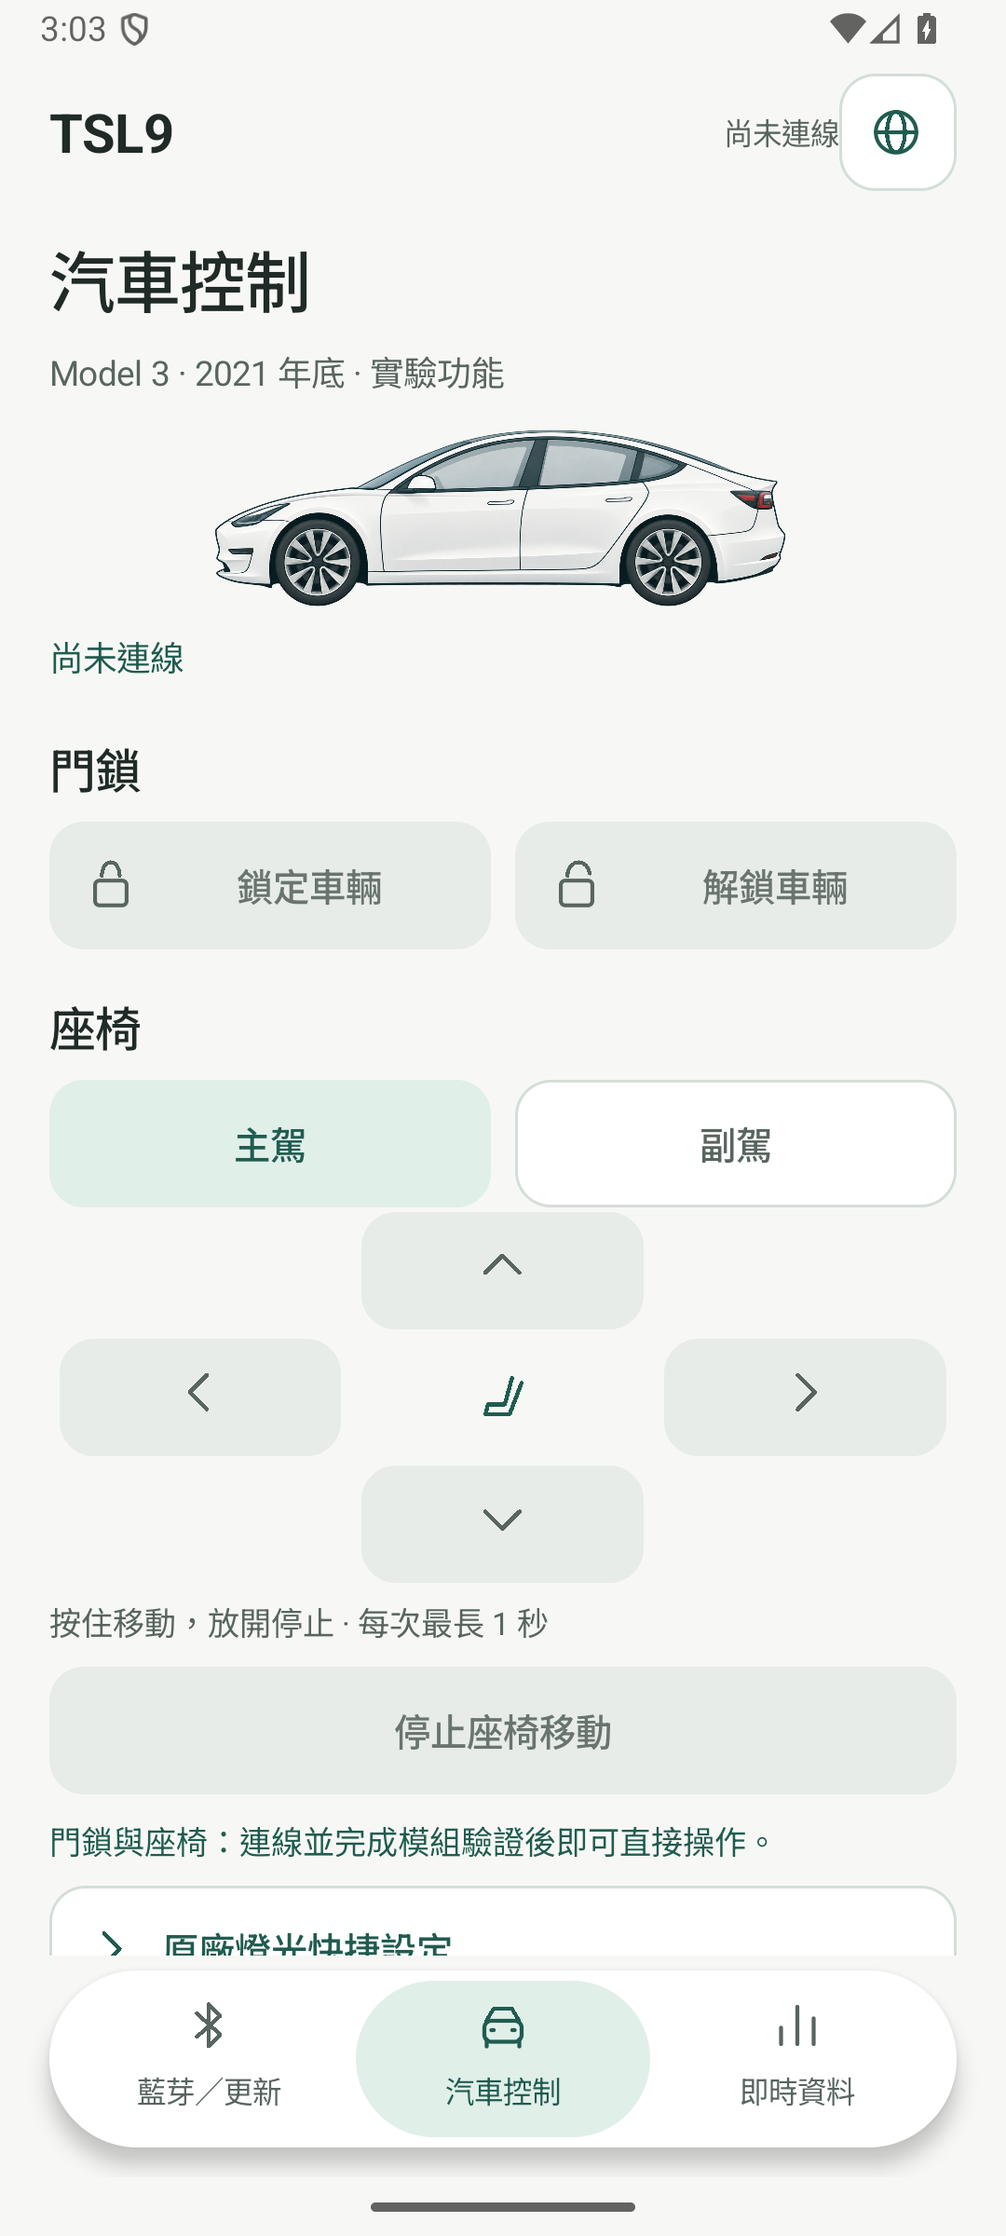
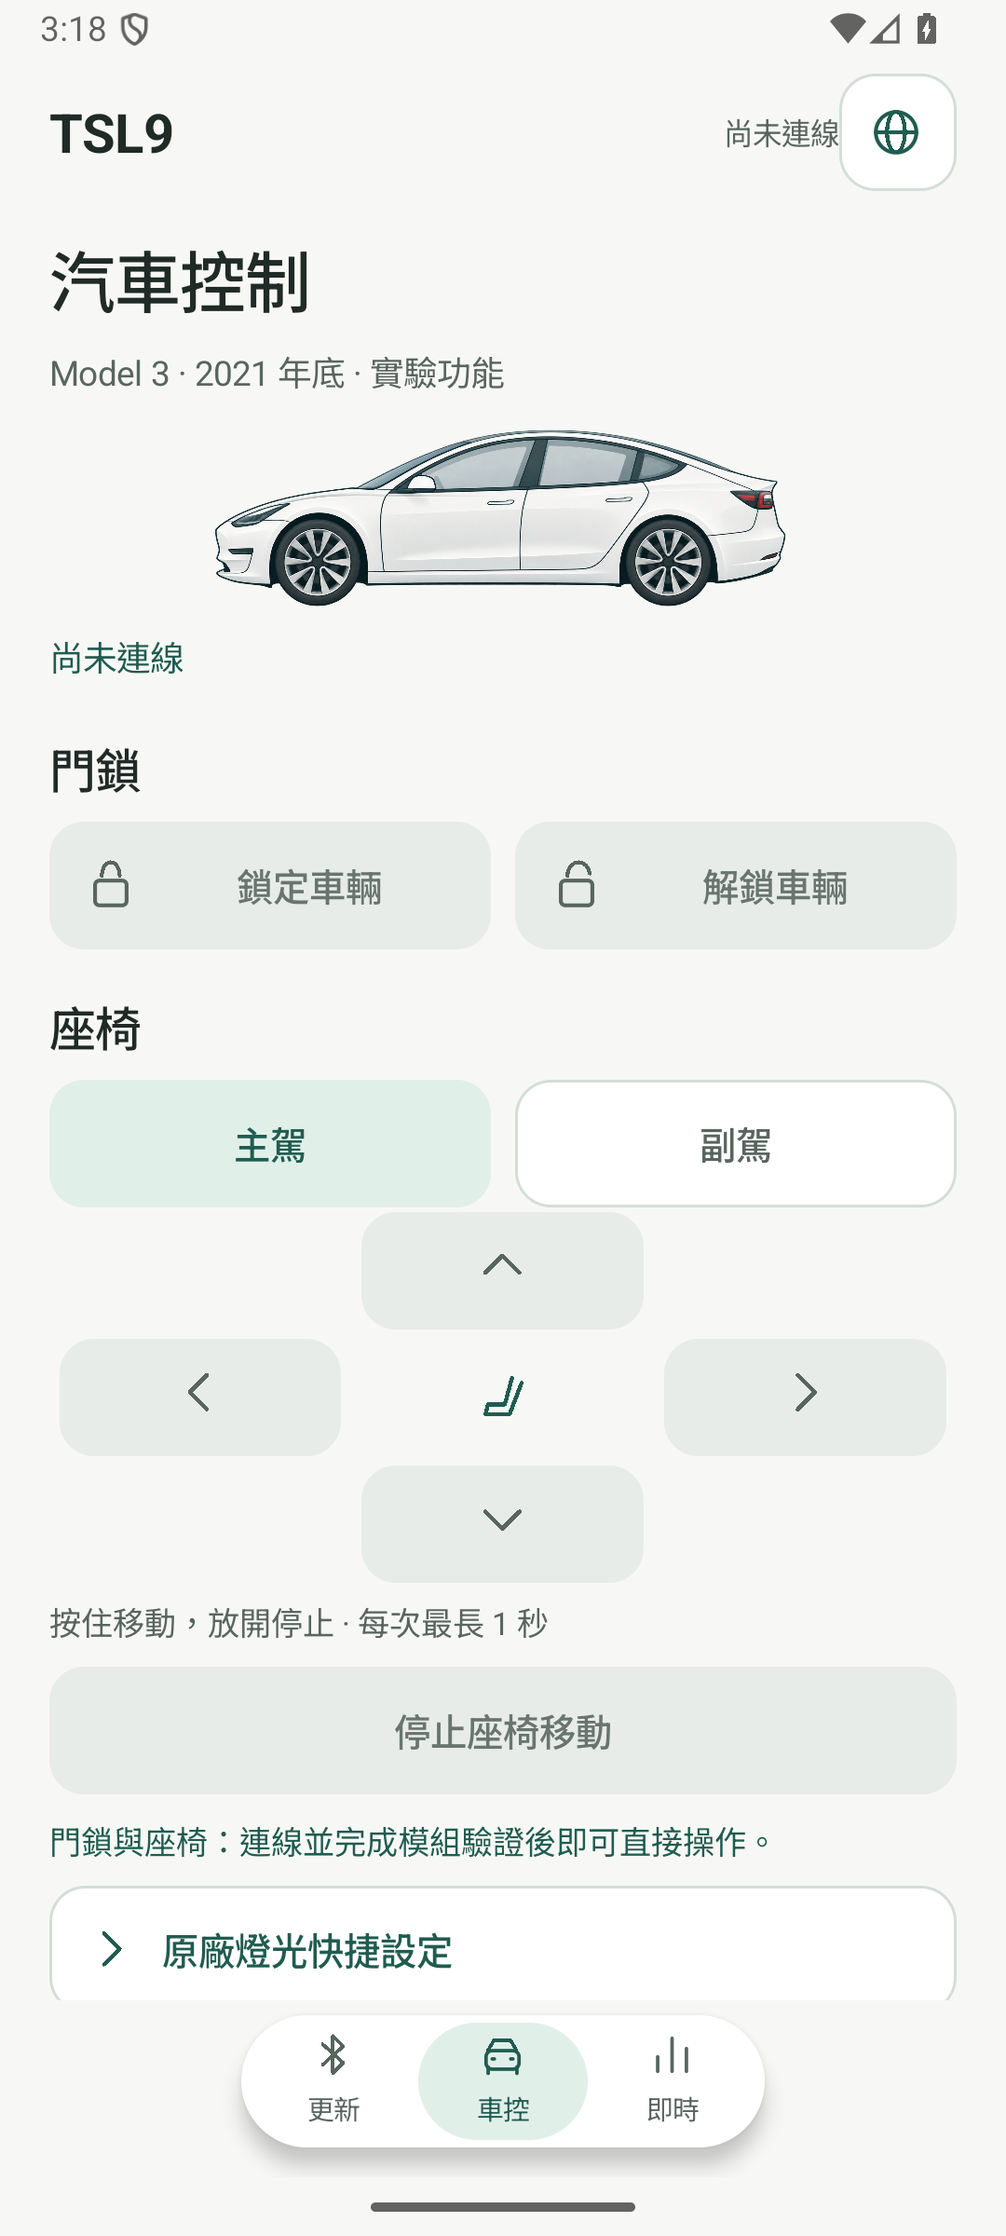
Pin reference-based compact pill navigation pattern

diff --git a/tsl9-morphe/tsl9-updater/app/src/main/java/dev/tsl9/morphe/MainActivity.java b/tsl9-morphe/tsl9-updater/app/src/main/java/dev/tsl9/morphe/MainActivity.java
@@ -58,7 +58,7 @@ public final class MainActivity extends Activity implements BleClient.Events,Ota
     private int dp(float n){return Math.round(n*getResources().getDisplayMetrics().density);}
     private TextView text(String value,int size,int color){return AppUi.text(this,value,size,color);}
     private Button button(String title,Runnable run){Button b=new Button(this);b.setText(title);AppUi.style(b,false);b.setOnClickListener(v->{try{run.run();}catch(SecurityException e){state(s(R.string.nearby_permission));log("PERMISSION operation blocked");}catch(IllegalArgumentException e){state(UiStrings.error(this,e));log("VALIDATION "+e.getMessage());}});return b;}
-    private TextView tabIndicator(int label,String icon){return AppUi.tab(this,s(label),icon);}
+    private TextView tabIndicator(int label,int compactLabel,String icon){TextView tab=AppUi.tab(this,s(compactLabel),icon);tab.setContentDescription(s(label));return tab;}
     private void title(LinearLayout body,int title,int subtitle){TextView h=text(s(title),27,DARK);h.setTypeface(android.graphics.Typeface.create("sans-serif-medium",android.graphics.Typeface.NORMAL));body.addView(h);body.addView(text(s(subtitle),14,MUTED));}
     private void section(LinearLayout body,int label){body.addView(AppUi.heading(this,s(label)));}
     private void buildUi(){
@@ -108,11 +108,11 @@ public final class MainActivity extends Activity implements BleClient.Events,Ota
         language.setOnItemSelectedListener(new AdapterView.OnItemSelectedListener(){public void onNothingSelected(AdapterView<?> p){}public void onItemSelected(AdapterView<?> p,View v,int position,long id){if(position==LanguageSettings.index(MainActivity.this))return;if(!canChangeLanguage()){language.setSelection(LanguageSettings.index(MainActivity.this));return;}LanguageSettings.select(MainActivity.this,position);}});
         languagePanel.addView(language);languagePanel.setVisibility(View.GONE);tabBody.addView(languagePanel);
         FrameLayout content=new FrameLayout(this);content.setId(android.R.id.tabcontent);tabBody.addView(content,new LinearLayout.LayoutParams(-1,0,1));
-        TabWidget tabBar=new TabWidget(this);tabBar.setId(android.R.id.tabs);tabBar.setStripEnabled(false);tabBar.setPadding(dp(5),dp(4),dp(5),dp(4));tabBar.setBackground(AppUi.shape(this,AppUi.WHITE,999,0));tabBar.setElevation(dp(5));tabBar.setClipToOutline(true);
-        LinearLayout.LayoutParams barParams=new LinearLayout.LayoutParams(-1,-2);barParams.setMargins(dp(20),dp(6),dp(20),dp(12));tabBody.addView(tabBar,barParams);tabs.addView(tabBody);tabs.setup();
+        TabWidget tabBar=new AppUi.PillNavigation(this);
+        LinearLayout.LayoutParams barParams=new LinearLayout.LayoutParams(-2,-2);barParams.gravity=Gravity.CENTER_HORIZONTAL;barParams.setMargins(dp(16),dp(6),dp(16),dp(12));tabBody.addView(tabBar,barParams);tabs.addView(tabBody);tabs.setup();
         ScrollView vehicleScroll=buildVehicleUi();
         livePanel=new LivePanel(this,new LivePanel.Host(){public void query(){requestCarStatus();}public void startCan(String filter){startLiveCan(filter);}public void stopCan(){if(hardware.active()&&hardware.mode()==HardwareCapture.Mode.CAN)stopHardware("manual",false);}public void export(){if(hardwareExport.isEnabled())hardwareExport.performClick();}});
-        tabs.addTab(tabs.newTabSpec("tools").setIndicator(tabIndicator(R.string.tab_tools,"bluetooth")).setContent(tag->scroll));tabs.addTab(tabs.newTabSpec("car").setIndicator(tabIndicator(R.string.tab_car,"car")).setContent(tag->vehicleScroll));tabs.addTab(tabs.newTabSpec("live").setIndicator(tabIndicator(R.string.live_tab,"chart")).setContent(tag->livePanel.view));
+        tabs.addTab(tabs.newTabSpec("tools").setIndicator(tabIndicator(R.string.tab_tools,R.string.nav_tools,"bluetooth")).setContent(tag->scroll));tabs.addTab(tabs.newTabSpec("car").setIndicator(tabIndicator(R.string.tab_car,R.string.nav_car,"car")).setContent(tag->vehicleScroll));tabs.addTab(tabs.newTabSpec("live").setIndicator(tabIndicator(R.string.live_tab,R.string.nav_live,"chart")).setContent(tag->livePanel.view));
         tabs.setOnTabChangedListener(tag->{if(!tag.equals("car"))car.stopSeat();if(tag.equals("car")||tag.equals("live")){lastCarPoll=0;lastCarInfoPoll=0;}refresh();});setContentView(tabs);
         tabBody.setOnApplyWindowInsetsListener((v,insets)->{tabBody.setPadding(insets.getSystemWindowInsetLeft(),insets.getSystemWindowInsetTop(),insets.getSystemWindowInsetRight(),insets.getSystemWindowInsetBottom());return insets.consumeSystemWindowInsets();});
     }

diff --git a/tsl9-morphe/tsl9-updater/app/src/main/java/dev/tsl9/morphe/AppUi.java b/tsl9-morphe/tsl9-updater/app/src/main/java/dev/tsl9/morphe/AppUi.java
@@ -35,10 +35,25 @@ final class AppUi {
         Context c=row.getContext();LinearLayout.LayoutParams left=new LinearLayout.LayoutParams(0,-2,1);left.setMarginEnd(dp(c,5));LinearLayout.LayoutParams right=new LinearLayout.LayoutParams(0,-2,1);right.setMarginStart(dp(c,5));row.addView(a,left);row.addView(b,right);
     }
     static TextView tab(Context c,String title,String kind){
-        TextView v=text(c,title,12,INK);v.setGravity(Gravity.CENTER);v.setMinHeight(dp(c,64));v.setPadding(dp(c,5),dp(c,7),dp(c,5),dp(c,7));v.setMaxLines(2);v.setContentDescription(title);
+        TextView v=text(c,title,11,INK);v.setGravity(Gravity.CENTER);v.setMinHeight(dp(c,48));v.setMinWidth(dp(c,48));v.setIncludeFontPadding(false);v.setPadding(dp(c,4),dp(c,3),dp(c,4),dp(c,3));v.setSingleLine(true);v.setContentDescription(title);
         int[][] states={new int[]{android.R.attr.state_selected},new int[0]};v.setTextColor(new ColorStateList(states,new int[]{TEAL,MUTED}));
         StateListDrawable bg=new StateListDrawable();bg.addState(states[0],shape(c,SAGE,999,0));bg.addState(states[1],shape(c,Color.TRANSPARENT,999,0));v.setBackground(new RippleDrawable(ColorStateList.valueOf(0x19205c50),bg,null));
-        Icon icon=new Icon(kind,true);icon.setBounds(0,0,dp(c,23),dp(c,23));v.setCompoundDrawables(null,icon,null,null);v.setCompoundDrawablePadding(dp(c,3));return v;
+        Icon icon=new Icon(kind,true);icon.setBounds(0,0,dp(c,20),dp(c,20));v.setCompoundDrawables(null,icon,null,null);v.setCompoundDrawablePadding(dp(c,2));return v;
+    }
+    /** Pinned compact navigation geometry. Labels can expand the nominal ratio. */
+    static final class PillNavigation extends TabWidget {
+        static final float WIDTH_RATIO=0.52f;
+        PillNavigation(Context c){super(c);setId(android.R.id.tabs);setStripEnabled(false);setPadding(dp(c,3),dp(c,3),dp(c,3),dp(c,3));setBackground(shape(c,WHITE,999,0));setElevation(dp(c,5));setClipToOutline(true);}
+        @Override protected void onMeasure(int widthSpec,int heightSpec){
+            Context c=getContext();int available=View.MeasureSpec.getSize(widthSpec);
+            if(View.MeasureSpec.getMode(widthSpec)==View.MeasureSpec.UNSPECIFIED)available=c.getResources().getDisplayMetrics().widthPixels-dp(c,32);
+            int slot=dp(c,48),height=dp(c,48);
+            for(int i=0;i<getChildCount();i++)if(getChildAt(i) instanceof TextView){TextView label=(TextView)getChildAt(i);slot=Math.max(slot,(int)Math.ceil(label.getPaint().measureText(label.getText().toString()))+label.getPaddingLeft()+label.getPaddingRight()+dp(c,2));Paint.FontMetrics metrics=label.getPaint().getFontMetrics();height=Math.max(height,(int)Math.ceil(metrics.descent-metrics.ascent)+label.getPaddingTop()+label.getPaddingBottom()+dp(c,22));}
+            int nominal=Math.min(dp(c,360),Math.round((available+dp(c,32))*WIDTH_RATIO));
+            int desired=Math.min(available,Math.max(nominal,slot*getChildCount()+getPaddingLeft()+getPaddingRight()));
+            int desiredHeight=height+getPaddingTop()+getPaddingBottom();
+            super.onMeasure(View.MeasureSpec.makeMeasureSpec(desired,View.MeasureSpec.EXACTLY),View.MeasureSpec.makeMeasureSpec(View.resolveSize(desiredHeight,heightSpec),View.MeasureSpec.EXACTLY));
+        }
     }
     static LinearLayout disclosure(Context c,LinearLayout parent,String title,LinearLayout detail){
         Button header=new Button(c);header.setText(title);style(header,false);header.setGravity(Gravity.START|Gravity.CENTER_VERTICAL);icon(header,"chevron");

diff --git a/tsl9-morphe/tsl9-updater/app/src/androidTest/java/dev/tsl9/morphe/MockupUiChecks.java b/tsl9-morphe/tsl9-updater/app/src/androidTest/java/dev/tsl9/morphe/MockupUiChecks.java
@@ -17,10 +17,20 @@ final class MockupUiChecks {
         TabWidget bar=tabs.getTabWidget();float density=a.getResources().getDisplayMetrics().density;
         check(bar.getTabCount()==3,"three native navigation destinations retained");
         check(bar.getWidth()<tabs.getWidth()-24*density,"pill navigation has visible horizontal breathing room");
+        float fontScale=a.getResources().getConfiguration().fontScale;
+        if(fontScale<=1.05f&&tabs.getWidth()/density<600){
+            check(bar.getWidth()>=tabs.getWidth()*0.50f&&bar.getWidth()<=tabs.getWidth()*0.57f,"compact pill follows reference width around 52 percent");
+            check(bar.getWidth()/(float)bar.getHeight()>=3.6f&&bar.getWidth()/(float)bar.getHeight()<=4.5f,"compact pill follows reference aspect near four to one");
+        }
+        check(Math.abs(bar.getLeft()+bar.getWidth()/2f-tabs.getWidth()/2f)<=2*density,"pill remains horizontally centered");
         for(int i=0;i<3;i++){
             View v=bar.getChildTabViewAt(i);check(v.getHeight()>=48*density,"tab has a touch target at least 48dp high");
+            check(v.getWidth()>=48*density,"compact tab keeps a touch target at least 48dp wide");
             check(v instanceof TextView&&!((TextView)v).getText().toString().isEmpty(),"tab retains an accessible localized label");
             check(((TextView)v).getCompoundDrawables()[1]!=null,"each navigation destination has an icon");
+            check(((TextView)v).getMaxLines()==1,"compact navigation keeps a single short label line");
+            int[] names={R.string.tab_tools,R.string.tab_car,R.string.live_tab};check(a.getString(names[i]).contentEquals(v.getContentDescription()),"short labels preserve full accessible destination names");
+            TextView label=(TextView)v;check(label.getPaint().measureText(label.getText().toString())<=v.getWidth()-v.getPaddingLeft()-v.getPaddingRight()+1,"scaled localized navigation label fits its slot");
             v.performClick();check(tabs.getCurrentTab()==i,"native pill tab opens its destination");
         }
         tabs.setCurrentTabByTag("tools");

diff --git a/tsl9-morphe/tsl9-updater/DESIGN.md b/tsl9-morphe/tsl9-updater/DESIGN.md
@@ -40,6 +40,10 @@ typography:
     fontSize: "12sp"
     fontWeight: 400
     fontFeature: "tnum"
+  navigation-label:
+    fontFamily: "sans"
+    fontSize: "11sp"
+    fontWeight: 400
   metric:
     fontFamily: "sans-serif-medium"
     fontSize: "28sp"
@@ -93,15 +97,18 @@ components:
   navigation:
     backgroundColor: "{colors.white}"
     rounded: "{rounded.capsule}"
-    padding: "4dp 5dp"
+    padding: "3dp"
+    width: "52% of safe viewport; max 360dp; expand for accessible labels"
+    aspect: "approximately 4:1 at default font size"
+    minTarget: "48dp x 48dp per destination"
   navigation-selected:
     backgroundColor: "{colors.selected-sage}"
     textColor: "{colors.forest-teal}"
-    typography: "{typography.caption}"
+    typography: "{typography.navigation-label}"
     rounded: "{rounded.capsule}"
   navigation-inactive:
     textColor: "{colors.muted}"
-    typography: "{typography.caption}"
+    typography: "{typography.navigation-label}"
     rounded: "{rounded.capsule}"
 ---
 
@@ -163,7 +170,8 @@ These names describe the current native implementation; platform font resolution
 - **Body:** descriptions, connection/readiness text and detailed vehicle data.
 - **Supporting:** help, summary and file/version metadata.
 - **Label:** sentence-case action labels, with all-caps transformation disabled.
-- **Caption:** navigation labels and metric field labels.
+- **Caption:** metric field labels.
+- **Navigation label:** short, single-line destination text in the compact pill.
 - **Metric:** prominent received values, using tabular figures where requested.
 - **Diagnostic:** selectable logs. CAN stream text also uses monospace at the supporting size.
 
@@ -175,7 +183,21 @@ All three destinations use a vertical `ScrollView` with a fill-viewport body. Sh
 
 Paired controls share available width equally. Each contributes a half-gap toward the adjacent item, making a central gap (10dp). Live metric tiles use the same two-column arrangement and independent content heights; the implementation does not equalize tiles or switch to a desktop grid.
 
-The bottom capsule occupies its own layout row below the scrolling content. It has horizontal page margins, a small top margin (6dp) and bottom breathing room (12dp). Each destination is at least 64dp high, with labels allowed two lines. Window insets are applied to the outer tab body.
+The bottom capsule occupies its own centered layout row below the scrolling content. Its nominal width is 52% of the safe viewport, capped at 360dp; it retains at least 16dp of side clearance, a small top margin (6dp), and bottom breathing room (12dp). Each destination is at least 48dp square. Window insets are applied to the outer tab body. See the compact pill pattern below for accessibility expansion.
+
+### Compact centered pill navigation — pinned reference
+
+The user's dialer screenshot `11138.jpg` is the proportion authority for this component. Visual estimates: image width 858px, capsule about 450px wide and 110px high, giving approximately 52% viewport width and 4.1:1 width/height. These are reference proportions, not physical-device dp measurements. Preserve the App's light/forest-teal palette; the reference pins geometry and hierarchy.
+
+- **Outer silhouette:** a compact capsule centered above the system gesture area, with visibly generous empty space on both sides. Do not stretch it across almost the full screen merely because its corners are round.
+- **Three equal destinations:** each gets one third of the usable inner width, a 20dp line icon above a short 11sp single-line label, a 2dp icon/label gap, and at least a 48dp square touch region. Inner shell padding is 3dp; normal shell height is approximately 54dp.
+- **Selection:** a filled inner pill occupies one slot and almost the full inner height. Keep a 3dp shell rim. Retain sage fill and teal content for the selected destination, muted content for the others, and native ripple/focus feedback.
+- **Copy:** compact labels are localized separately (Update / Controls / Live; 更新 / 車控 / 即時). Accessibility descriptions retain the full destination names, including Bluetooth / Update and Car controls. Page headings retain their original full copy.
+- **Sizing:** at normal font size, target `width = 0.52 × safeViewportWidth` and an aspect near 4:1. At large fonts or with longer translations, measure the actual label and expand all three slots equally before compromising readability. Minimum target size, readable labels and system insets take priority over the nominal ratio. Do not shrink text or clip it to preserve the screenshot shape. In wide windows cap the nominal width at 360dp; labels may require a larger accessible width within the safe viewport.
+- **Behavior:** selecting a destination updates its active inner pill. Preserve native tab semantics, existing destinations, state, lifecycle behavior and the stop-seat request when leaving car controls. No navigation animation may delay a stop request.
+- **Verification:** inspect the three actual App pages together at default font size, landscape and 200% text. Check horizontal centering, normal width/aspect, one-line labels, equal slots, 48dp targets, selected/inactive contrast, and full accessibility names. Screenshots must show real empty/disconnected states when no hardware is connected.
+
+Implementation authority: `AppUi.PillNavigation`, `AppUi.tab`, and `MainActivity`'s localized tab indicators. The same pattern is stored in `.impeccable/design.json` under `extensions.navigationPattern`; future App navigation changes must follow both records.
 
 The layout remains a scrollable single column in landscape and at larger font settings; no application breakpoint or alternative landscape composition is defined. Let native text measurement and scrolling carry expanded content.
 
@@ -193,7 +215,7 @@ Primary and secondary buttons use a native teal ripple with alpha `0x25`; naviga
 
 Use gently rounded control surfaces, slightly rounder content containers and a fully rounded navigation capsule. The capsule token is the implementation's large-radius sentinel; effective rounding is limited by the view's dimensions.
 
-Cards and secondary actions carry a thin boundary (1dp). Primary, disabled and selected fills have no added outline in the shared drawable. Selection is sage rather than a heavier border. Shared icons are custom geometric strokes with rounded caps and joins, drawn on a 24-unit coordinate grid with stroke width (1.7 units). Inline icons are normally 22dp; navigation icons are 23dp; directional controls use 24dp icons. Use these drawn icons instead of substituting emoji or typographic symbols.
+Cards and secondary actions carry a thin boundary (1dp). Primary, disabled and selected fills have no added outline in the shared drawable. Selection is sage rather than a heavier border. Shared icons are custom geometric strokes with rounded caps and joins, drawn on a 24-unit coordinate grid with stroke width (1.7 units). Inline icons are normally 22dp; navigation icons are 20dp; directional controls use 24dp icons. Use these drawn icons instead of substituting emoji or typographic symbols.
 
 ## Components
 

diff --git a/tsl9-morphe/tsl9-updater/README.md b/tsl9-morphe/tsl9-updater/README.md
@@ -6,7 +6,9 @@ APK：[`TSL9-Updater-0.7.1-test.apk`](../artifacts/tsl9-updater/TSL9-Updater-0.7
 
 0.7.1移除使用者專屬路徑並改用中性套件名稱。這會另行安裝，不能覆蓋舊套件；舊 App 的本機設定與記錄不會自動搬移。工具偵測與截圖重現方式見 [PORTABILITY.md](PORTABILITY.md)。0.7.0 的驗證收據保留當時真實套件與雜湊。
 
-0.7.1驗證：8項工具偵測、163項JVM、1090項三語資源、472項Android介面／生命週期檢查通過；真實系統選檔／匯出另通過123項Android及4項匯出內容檢查。見 [精確收據](verification/ui-0.7.1.json) 與 [新版三頁截圖](verification/screens/0.7.1/)。均為本機／合成測試，未操作實車或寫入硬體。
+0.7.1導覽依使用者參考圖改為置中的窄版膠囊，預設寬度約畫面52%、寬高約4:1；三語短標籤保留完整無障礙名稱，大字型會允許展寬。此規範已寫入 [DESIGN.md](DESIGN.md) 與 `.impeccable/design.json`。
+
+0.7.1驗證：8項工具偵測、163項JVM、1102項三語資源、532項Android介面／生命週期檢查通過；真實系統選檔／匯出另通過138項Android及4項匯出內容檢查，英文200%字型另128項介面檢查通過（基礎斷言重疊）。見 [精確收據](verification/ui-0.7.1.json) 與 [新版畫面截圖](verification/screens/0.7.1/)。均為本機／合成測試，未操作實車或寫入硬體。
 
 0.7依確認的 mockup 改為原生淺底深綠介面與浮動膠囊導覽。三頁共享語言／連線標示；座椅改為主／副駕切換與方向按鍵，切換時要求停止。即時資料使用實際回覆的指標區塊，無效回覆或身份重置立即清空顯示。進階設定與長文收納為可展開區域，三種韌體格式、模組驗證、診斷／匯出與既有作業條件保留。詳見 [UI-REDESIGN.md](UI-REDESIGN.md) 與 [DESIGN.md](DESIGN.md)。
 

diff --git a/tsl9-morphe/tsl9-updater/PORTABILITY.md b/tsl9-morphe/tsl9-updater/PORTABILITY.md
@@ -20,3 +20,5 @@ pwsh -File ./capture-ui.ps1 -Serial '<your-emulator-serial>'
 ```
 
 The script runs synthetic instrumentation, verifies the visible App title, selects each real tab and captures screenshots under `../artifacts/ui-screenshots/`. It does not fabricate connection status or vehicle data.
+
+Add `-AdditionalStatesOnly` for landscape and 200% text captures, including English label-fit checks. This changes only the explicitly selected emulator's font/rotation settings and restores them in `finally`.
